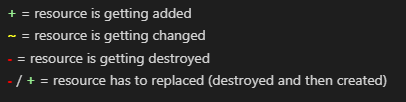
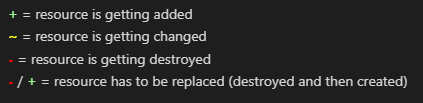
Added Testing to documentation

diff --git a/README.md b/README.md
@@ -164,25 +164,74 @@ If the configuration is valid then the command `terraform plan` can be run. This
 Because right now nothing is deployed and the state file is empty, it will show everything with a green + Symbol because everything is getting added.
 ![](./png/screenshots/terraform-plan.PNG)
 
-Here is a short explanation of what the operator mean:  
-
-
-<span style="color:lightgreen">**+**</span> = resource is getting added  
-<span style="color:yellow">**~**</span>     = resource is getting changed  
-<span style="color:red">**-**</span>        = resource is getting destroyed  
-<span style="color:red">**-**</span> / <span style="color:lightgreen">**+**</span> = resource has to replaced (destroyed and then created)
-
+Here is a short explanation of what the different operator mean:  
 
 ![](./png/screenshots/terraform-plan-status.PNG)
 
 
 ## Terraform apply
-To actual deploy the configuration the command `terraform apply` must be run.
+To actually deploy the configuration the command `terraform apply` must be run.  
+Terraform will show the planned changes like with terraform plan but now the deployment has to be confirmed with **yes**. After that the current configuration is getting provisoned and the state file is getting updated to reflect the current state of the infrastructure.  
 
+![](./png/screenshots/terraform-apply.PNG)
 
-# Best practice
+After the deployment following message should appear:
 
-It is best practice to run the command `terraform plan -out <name>.tfplan` first, so the changes are getting put out in a file, which later can be applied with the command `terraform apply <name>.tfplan`
+![](./png/screenshots/terraform-apply-complete.PNG)
+
+In the outputs it's showing me the public DNS of the webserver.
+
+After entering the URL:
+http://webserver-alb-905079684.us-east-1.elb.amazonaws.com/  
+I can see that the Webservers are running my webserver configuration.  
+![](./png/screenshots/webserver-url.PNG)
+
+## Best practice for plan & apply
+
+It is best practice to run the command `terraform plan -out <name>.tfplan` first, so the changes are put out in a file. This file can later be applied with the command `terraform apply <name>.tfplan`
+
+## Terraform destroy
+
+To tear down the whole infrastructure the command `terraform destroy` can be run. This command should never be run mindlessly in a production environment!
+
+![](./png/screenshots/terraform-destroy.PNG)
+
+Terraform will ask to confirm this action with a **yes** before it starts tearing down the environment.
+
+![](./png/screenshots/terraform-destroy-yes.PNG)
+
 
 # Testing
-## Reflection
+
+The infrastructre was tested on **23.01.2022** by **Kevin Milic**.
+
+| Test  |  Result |
+|---|---|
+| What operating system is used for this test?  | Windows 10  |
+| Is the AWS CLI installed?  |  Yes |
+| What version of the AWS CLI is installed?  | The version `aws-cli/2.9.15 Python/3.9.11 Windows/10 exe/AMD64 prompt/off` is installed  |
+| Is Terraform installed? |  Yes |
+| What version of Terraform is currently installed? | The version `Terraform v1.3.7 on windows_amd64` is installed  |
+| Is the programmatic access to AWS possible?  | Yes  |
+| Is the given permission sufficient for provisioning infrastructure?  |  Yes |
+| Does the permissions follow the principle of least privilege | No  |
+| What backend type is used?  | Local backend |
+| Is the current Terraform configuration valid?  |  Yes |
+| How was the Terraform configuration applied?  | Manually in VS Code Terminal with the command `terraform plan` and then with `terraform apply`  |
+| Are the created resources visible in the AWS Management Console?| Yes |
+| Was a VPC with the CIDR Block **10.0.0.0/16** created? | Yes ![]()  |
+| Were 2 Subnets with the CIDR Block **10.0.0.0/24** & **10.0.1.0/24** created?| Yes  |
+| Were 2 VMs (EC2 Instances) created? | Yes |
+| Is each VM in a different subnet? | Yes |
+| Do both VMs have a public IP? If so, what is their public IP address?| Yes <br> VM1's IP is **3.236.153.191** <br>VM2's IP is **44.204.235.143**|
+| Is an Application Load Balancer provisioned? | Yes |
+| Is a S3 Bucket provisioned? | Yes |
+| Is the S3 Bucket holding an index.html file? | Yes |
+| Are both VMs (EC2 Instances) running on the latest Amazon Linux 2 AMI?| Yes |
+| Are both VMs running nginx? | Yes |
+| Are the webservers running the configuration from the S3 Bucket?  | Yes
+| Are the webservers reachable from public? | No. Not reachable by IP nor DNS. |
+| Is every resource using the tag "TBZ-Project" | [Yes](./png/screenshots/Test/Tags.PNG) |
+| After the test, did the command `terraform destroy` remove every single resource that was created? | Yes |
+
+# Reflection
